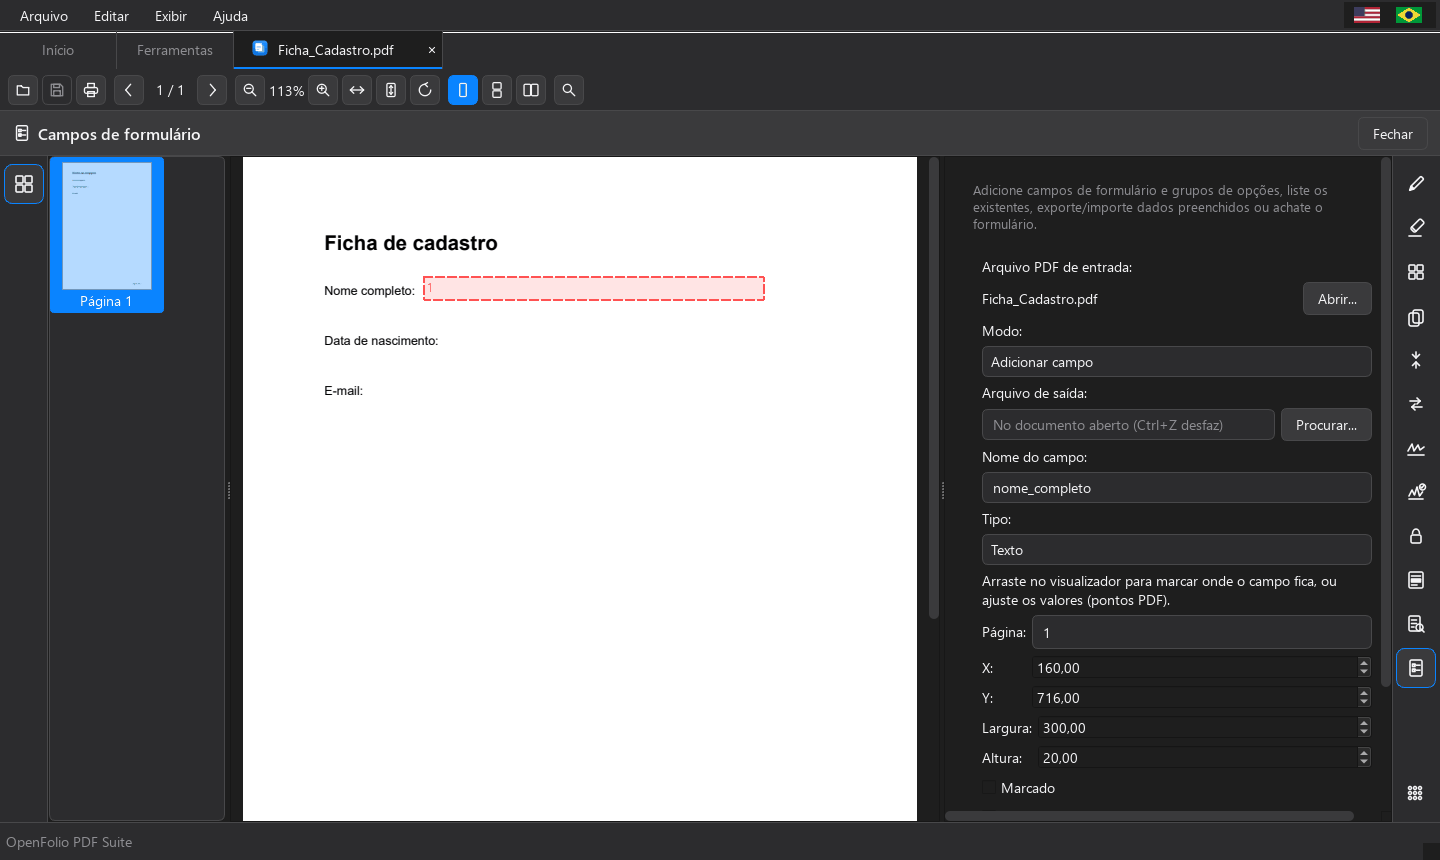
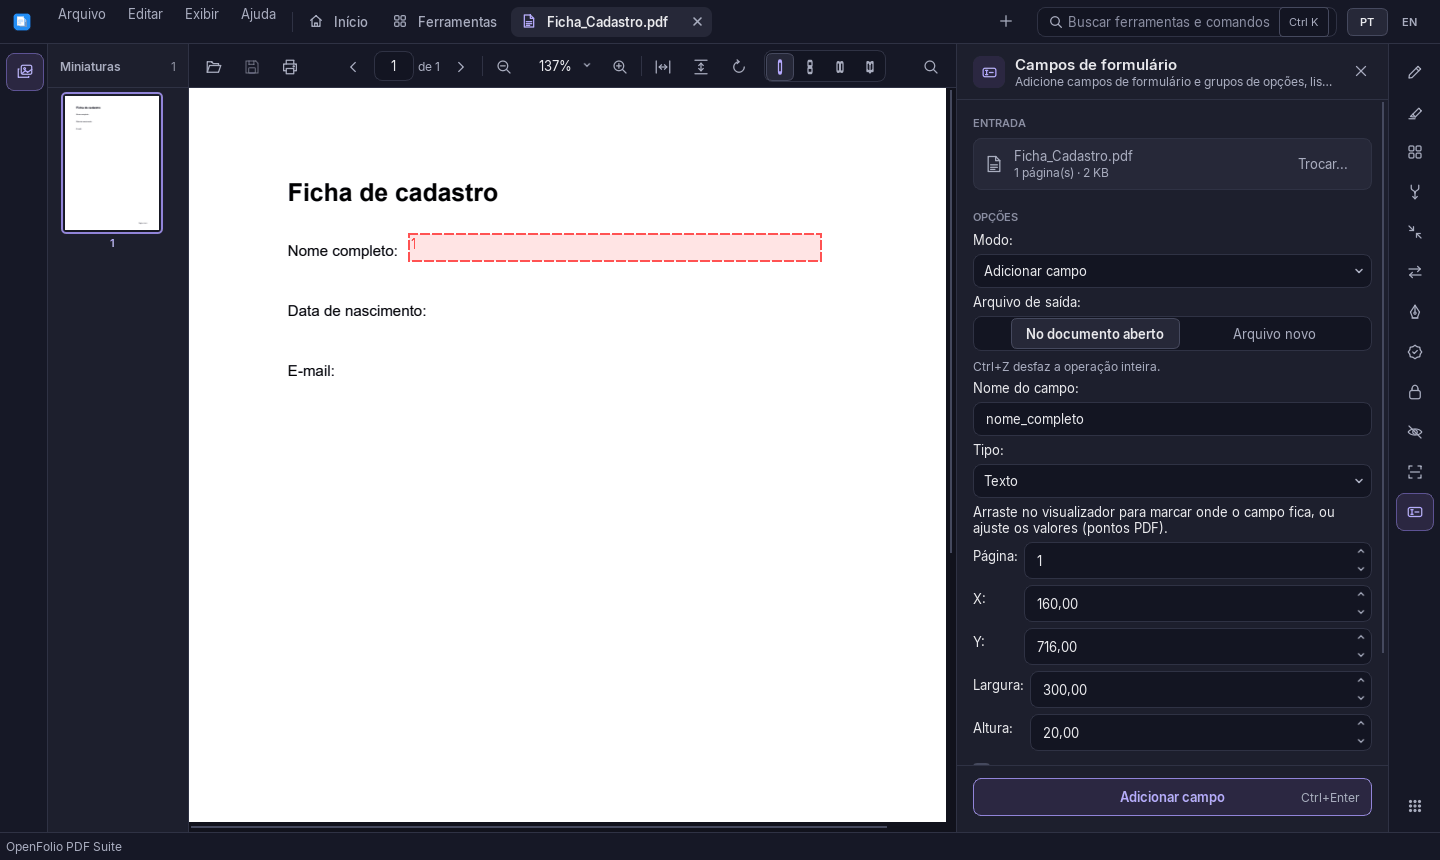
docs: refaz as capturas do README com a nova interface
README (assets/screenshots, README.md): as 12 capturas refeitas com a
interface nova, rodando o app de verdade com documentos de exemplo,
no tema escuro e a 1440 x 860. Mesclar e Comprimir passam a mostrar o
cartao de resultado no rodape do painel, no lugar das janelas de aviso
que nao existem mais, e o texto e as descricoes das imagens dizem
isso; a visao geral e Anotacoes mostram a barra de marcacao e a lista
de comentarios, e Ferramentas, a busca e os filtros. PNG com paleta,
804 KB no total.

Testes: so documentacao.

Changed region(s): [[0.0, 0.0, 1.0, 0.9674], [0.0, 0.9674, 0.0938, 0.9977]]

diff --git a/README.md b/README.md
@@ -55,7 +55,7 @@ coisa, ele mostra o que a atualização traz e pergunta; no Windows, se você ac
 confere o arquivo e instala sozinho. Tudo o que mudou fica em [CHANGELOG.md](CHANGELOG.md).
 
 <p align="center">
-  <img src="assets/screenshots/01-visao-geral.png" alt="Janela principal do OpenFolio PDF Suite: abas de documento, miniaturas à esquerda, um PDF aberto e a ferramenta Anotações à direita" width="900">
+  <img src="assets/screenshots/01-visao-geral.png" alt="Janela principal do OpenFolio PDF Suite: a faixa do topo com menus, abas e busca, um PDF aberto com a barra de marcação sobre a página e a ferramenta Anotações à direita" width="900">
 </p>
 
 A janela é organizada em abas: **Início** (abrir um PDF ou soltá-lo em qualquer parte da aba,
@@ -87,7 +87,7 @@ camadas. Se o PDF estiver protegido por senha, o próprio
 visualizador pede a senha na hora de abrir.
 
 <p align="center">
-  <img src="assets/screenshots/12-ferramentas.png" alt="Aba Ferramentas com todas as ferramentas em cartões, agrupadas por categoria" width="900">
+  <img src="assets/screenshots/12-ferramentas.png" alt="Aba Ferramentas com a busca, os filtros por categoria e todas as ferramentas em cartões, agrupadas por categoria" width="900">
 </p>
 
 O documento aberto é um documento de trabalho: as ferramentas aplicam o resultado nele, cada
@@ -183,8 +183,8 @@ o Tesseract, em vez de eu tentar resolver na unha algo onde um bug silencioso po
 ## Demonstração
 
 As capturas abaixo foram feitas rodando a aplicação de verdade: arquivos de exemplo reais são
-mesclados, comprimidos e processados, e os resultados (tamanho de arquivo, mensagens de sucesso)
-vêm da execução real das operações — não são mockups.
+mesclados, comprimidos e processados, e os resultados (tamanho de arquivo, o cartão de resultado
+no painel) vêm da execução real das operações — não são mockups.
 
 ### Mesclando arquivos
 
@@ -195,10 +195,11 @@ um arquivo de saída é escolhido:
   <img src="assets/screenshots/02-mesclar-arquivos.png" alt="Aba Mesclar com três relatórios mensais na lista, um marcador por arquivo e o arquivo de saída definido" width="900">
 </p>
 
-Ao clicar em **Mesclar**, os três arquivos são combinados em um único PDF de verdade:
+Ao clicar em **Mesclar** (ou Ctrl+Enter), os três arquivos são combinados em um único PDF de
+verdade, que abre numa aba; o resultado aparece no rodapé do próprio painel:
 
 <p align="center">
-  <img src="assets/screenshots/03-mesclar-sucesso.png" alt="Mensagem de sucesso após mesclar os PDFs">
+  <img src="assets/screenshots/03-mesclar-sucesso.png" alt="Painel Mesclar com o cartão de sucesso no rodapé e o PDF mesclado, de seis páginas, aberto" width="900">
 </p>
 
 ### Comprimindo um PDF
@@ -209,11 +210,11 @@ Um contrato de 25 páginas, com uma foto na primeira, está aberto no visualizad
   <img src="assets/screenshots/04-comprimir-config.png" alt="Aba Comprimir com o contrato de 25 páginas aberto e o nível médio escolhido" width="900">
 </p>
 
-O resultado mostra o tamanho real antes e depois da compressão (a foto é recomprimida a
-150 DPI) e fica no documento aberto, com Ctrl+Z para desfazer:
+O cartão de resultado mostra o tamanho real antes e depois da compressão (a foto é recomprimida
+a 150 DPI), e o resultado fica no documento aberto, com Desfazer ali mesmo ou Ctrl+Z:
 
 <p align="center">
-  <img src="assets/screenshots/05-comprimir-sucesso.png" alt="Mensagem de sucesso mostrando a redução de 2646 KB para 64 KB, com uma imagem recomprimida">
+  <img src="assets/screenshots/05-comprimir-sucesso.png" alt="Cartão de resultado no painel Comprimir mostrando a redução de 2646 KB para 64 KB, com uma imagem recomprimida, e os botões Desfazer e Concluir" width="900">
 </p>
 
 ### Marca d'água
@@ -248,7 +249,7 @@ a cor, a espessura e "Gravar", e o painel lista as marcações pendentes e os co
 gravados:
 
 <p align="center">
-  <img src="assets/screenshots/08-anotacoes.png" alt="Aba Anotações com um realce amarelo aplicado sobre um trecho do documento" width="900">
+  <img src="assets/screenshots/08-anotacoes.png" alt="Anotações com a barra de marcação sobre a página e o Realce escolhido, um realce amarelo sobre um trecho do documento e a lista de comentários gravados no painel" width="900">
 </p>
 
 ### OCR (texto pesquisável)
